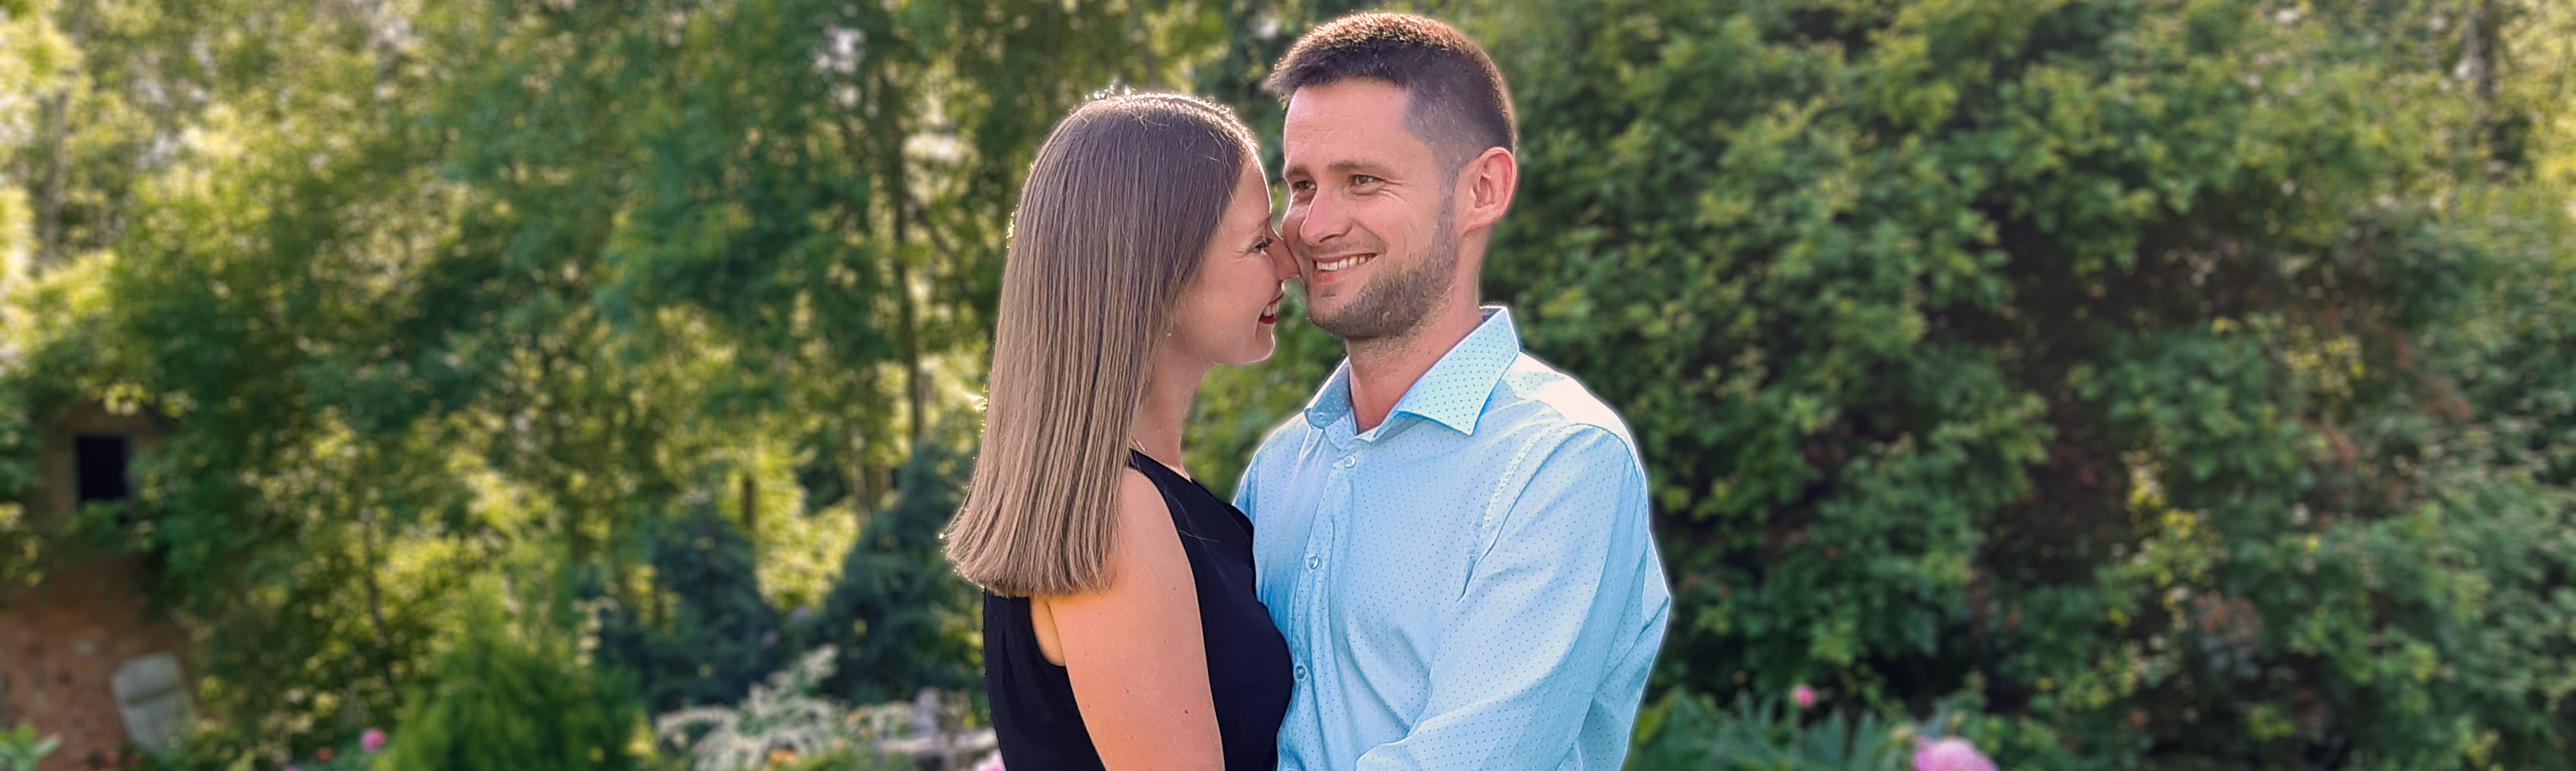
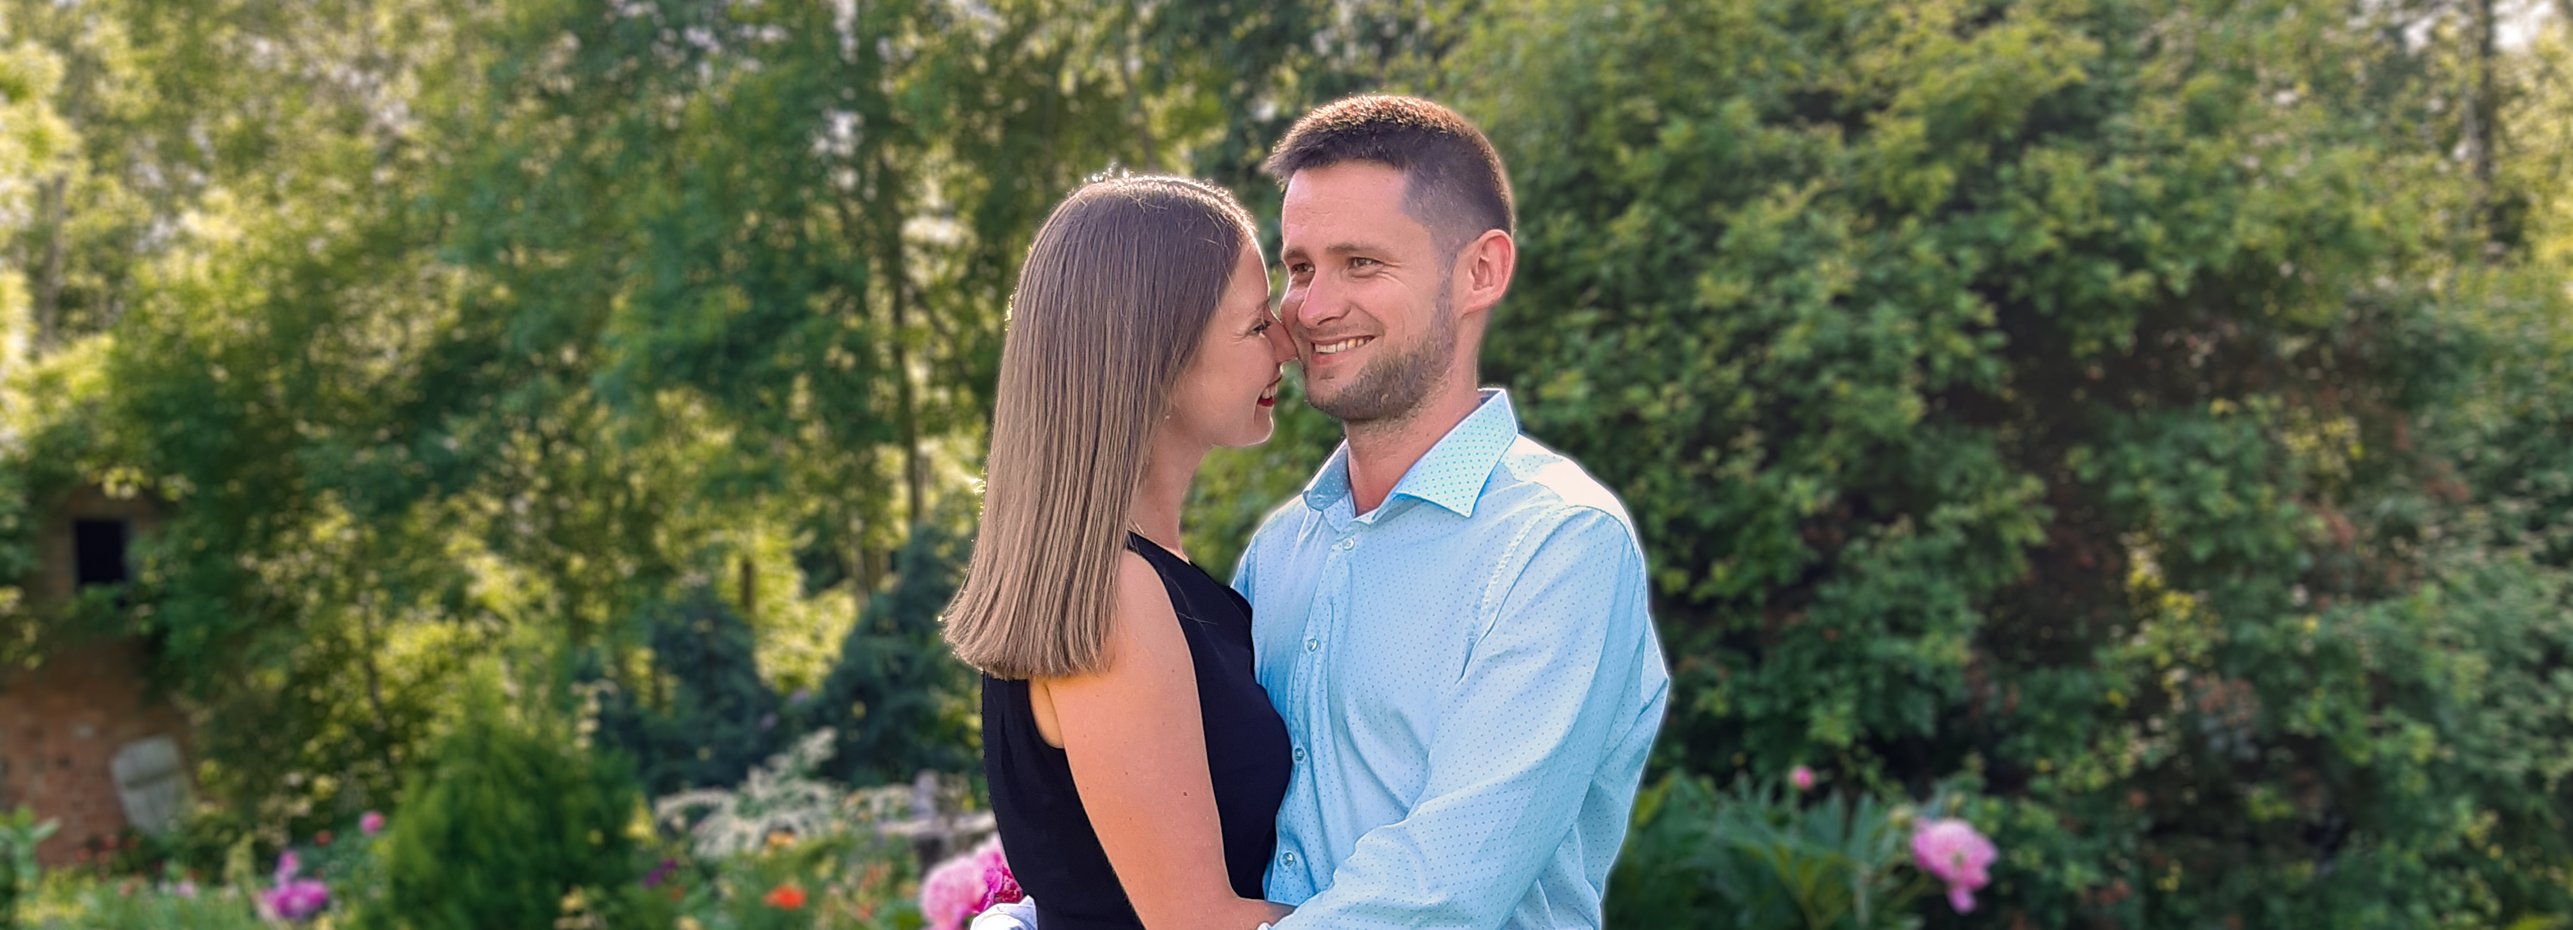
styling

diff --git a/src/app/components/header/header.component.html b/src/app/components/header/header.component.html
@@ -1,11 +1,35 @@
-<div class="wedding-header__container">
+<div class="wedding-header__container position-relative">
 
-  <h1 class="text-center mb-3 wedding-header__text">
+  <h1 class="text-center wedding-header__text">
     OLED OODATUD MEIE
     <br/>
-    <span class="text-decoration-underline">PULMA!</span>
+    <span>PULMA!</span>
     <br/>
-    <span>02.08.24</span>
+    <span>{{ configService.weddingStartTime | date:'dd.MM.yy' }}</span>
   </h1>
 
+
+  <div style="position: absolute; transform: rotate(180deg); width: 100%;">
+    <svg xmlns="http://www.w3.org/2000/svg" viewBox="0 0 1000 100" preserveAspectRatio="none">
+      <path fill="white" opacity="0.33"
+            d="M473,67.3c-203.9,88.3-263.1-34-320.3,0C66,119.1,0,59.7,0,59.7V0h1000v59.7 c0,0-62.1,26.1-94.9,29.3c-32.8,3.3-62.8-12.3-75.8-22.1C806,49.6,745.3,8.7,694.9,4.7S492.4,59,473,67.3z"></path>
+      <path fill="white" opacity="0.66"
+            d="M734,67.3c-45.5,0-77.2-23.2-129.1-39.1c-28.6-8.7-150.3-10.1-254,39.1 s-91.7-34.4-149.2,0C115.7,118.3,0,39.8,0,39.8V0h1000v36.5c0,0-28.2-18.5-92.1-18.5C810.2,18.1,775.7,67.3,734,67.3z"></path>
+      <path fill="white" opacity="0.86"
+            d="M766.1,28.9c-200-57.5-266,65.5-395.1,19.5C242,1.8,242,5.4,184.8,20.6C128,35.8,132.3,44.9,89.9,52.5C28.6,63.7,0,0,0,0 h1000c0,0-9.9,40.9-83.6,48.1S829.6,47,766.1,28.9z"></path>
+    </svg>
+  </div>
 </div>
+<div style="position:relative; top: -3px; width: 100%;">
+  <div style="position: absolute; width: 100%;">
+    <svg xmlns="http://www.w3.org/2000/svg" viewBox="0 0 1000 100" preserveAspectRatio="none">
+      <path fill="white" opacity="0.33"
+            d="M473,67.3c-203.9,88.3-263.1-34-320.3,0C66,119.1,0,59.7,0,59.7V0h1000v59.7 c0,0-62.1,26.1-94.9,29.3c-32.8,3.3-62.8-12.3-75.8-22.1C806,49.6,745.3,8.7,694.9,4.7S492.4,59,473,67.3z"></path>
+      <path fill="white" opacity="0.66"
+            d="M734,67.3c-45.5,0-77.2-23.2-129.1-39.1c-28.6-8.7-150.3-10.1-254,39.1 s-91.7-34.4-149.2,0C115.7,118.3,0,39.8,0,39.8V0h1000v36.5c0,0-28.2-18.5-92.1-18.5C810.2,18.1,775.7,67.3,734,67.3z"></path>
+      <path fill="white"
+            d="M766.1,28.9c-200-57.5-266,65.5-395.1,19.5C242,1.8,242,5.4,184.8,20.6C128,35.8,132.3,44.9,89.9,52.5C28.6,63.7,0,0,0,0 h1000c0,0-9.9,40.9-83.6,48.1S829.6,47,766.1,28.9z"></path>
+    </svg>
+  </div>
+</div>
+

diff --git a/src/app/components/time-until/time-until.component.ts b/src/app/components/time-until/time-until.component.ts
@@ -1,5 +1,6 @@
 import { Component, Inject, OnDestroy, OnInit, PLATFORM_ID } from '@angular/core';
 import { isPlatformBrowser } from '@angular/common';
+import { ConfigService } from '../../services/config.service';
 
 @Component({
   selector: 'wedding-time-until',
@@ -10,12 +11,17 @@ import { isPlatformBrowser } from '@angular/common';
 })
 export class TimeUntilComponent implements OnInit, OnDestroy {
 
-  private countDownTo: Date = new Date(2024, 7, 2, 15, 0);
 
-  protected countDownValue!: string;
+  protected days!: string;
+  protected hours!: string;
+  protected minutes!: string;
+  protected seconds!: string;
   private interval!: NodeJS.Timeout;
 
-  constructor(@Inject(PLATFORM_ID) private platformId: any) {
+  constructor(
+    @Inject(PLATFORM_ID) private platformId: any,
+    private configService: ConfigService,
+  ) {
   }
 
   ngOnInit(): void {
@@ -32,11 +38,15 @@ export class TimeUntilComponent implements OnInit, OnDestroy {
   }
 
   private updateCountDownValue() {
-    const secondsFromCurrentTimeToEnd = Math.max(0, (this.countDownTo.getTime() - new Date().getTime()) / 1000);
+    const secondsFromCurrentTimeToEnd = Math.max(0, (this.configService.weddingStartTime.getTime() - new Date().getTime()) / 1000);
     const days = Math.floor(secondsFromCurrentTimeToEnd / 3600 / 24);
     const hours = Math.floor(secondsFromCurrentTimeToEnd / 3600 - days * 24);
     const minutes = Math.floor((secondsFromCurrentTimeToEnd - (hours * 3600 + days * 3600 * 24)) / 60);
     const seconds = Math.floor(secondsFromCurrentTimeToEnd - (days * 24 * 3600) - (hours * 3600) - (minutes * 60));
-    this.countDownValue = `${ days.toString().padStart(2, '0') }:${ hours.toString().padStart(2, '0') }:${ minutes.toString().padStart(2, '0') }:${ seconds.toString().padStart(2, '0') }`;
+
+    this.days = days.toString().padStart(2, '0');
+    this.hours = hours.toString().padStart(2, '0');
+    this.minutes = minutes.toString().padStart(2, '0');
+    this.seconds = seconds.toString().padStart(2, '0');
   }
 }

diff --git a/src/app/components/header/header.component.scss b/src/app/components/header/header.component.scss
@@ -8,38 +8,42 @@
   background-repeat: no-repeat;
   background-size: cover;
 
-  height: 20rem;
+  height: 25rem;
 }
 
 .wedding-header__text {
   color: #ffffff;
   font-size: 1.5rem;
+  margin-bottom: 4rem;
 }
 
 
 @media screen and (min-width: 600px) {
   .wedding-header__text {
     font-size: 2rem;
-  }
-  .wedding-header__container {
-    height: 25rem;
-  }
-}
-
-@media screen and (min-width: 1000px) {
-  .wedding-header__text {
-    font-size: 2.5rem;
+    margin-bottom: 6rem;
   }
   .wedding-header__container {
     height: 30rem;
   }
 }
 
-@media screen and (min-width: 1700px) {
+@media screen and (min-width: 1000px) {
   .wedding-header__text {
-    font-size: 3.5rem;
+    font-size: 2.5rem;
+    margin-bottom: 8rem;
   }
   .wedding-header__container {
     height: 40rem;
+  }
+}
+
+@media screen and (min-width: 1700px) {
+  .wedding-header__text {
+    font-size: 3.5rem;
+    margin-bottom: 11rem;
+  }
+  .wedding-header__container {
+    height: 55rem;
   }
 }

diff --git a/src/app/components/location-information/location-information.component.html b/src/app/components/location-information/location-information.component.html
@@ -1,10 +1,11 @@
 <div class="wedding-location__container">
 
-  <div class="p-5">
+  <div>
     <h2>Toimumispaik</h2>
     <ul>
       <li>Pulmapidu toimiub Pärnumaal mingis talus</li>
       <li>Telk tuleb endal võtta</li>
+      <li>Lorem ipsum dolor sit amet, consectetur adipiscing elit. Quisque vel efficitur mi. Integer laoreet fringilla vulputate. Duis in varius tortor. Phasellus et purus id elit fermentum finibus. Morbi semper interdum elit et congue. In euismod vulputate velit, nec condimentum velit bibendum sed. Quisque laoreet orci non magna dictum, in sagittis est egestas. Nulla a lacus tincidunt, facilisis velit ac, malesuada erat. In sit amet erat sit amet leo mattis porta. Sed nec nisi at urna aliquet dignissim quis non ex.</li>
     </ul>
   </div>
 

diff --git a/src/app/components/time-until/time-until.component.html b/src/app/components/time-until/time-until.component.html
@@ -1,4 +1,22 @@
-<div class="d-flex flex-column align-items-center p-5">
+<div class="d-flex flex-column align-items-center">
   <h2>PULMADENI <br/> ON JÄÄNUD</h2>
-  <div>{{ countDownValue }}</div>
+
+  <div class="wedding-time-until__clock-container">
+    <div class="text-center">
+      <div>{{ days }}</div>
+      <small>päeva</small>
+    </div>
+    <div class="text-center">
+      <div>{{ hours }}</div>
+      <small>tundi</small>
+    </div>
+    <div class="text-center">
+      <div>{{ minutes }}</div>
+      <small>minutit</small>
+    </div>
+    <div class="text-center">
+      <div>{{ seconds }}</div>
+      <small>sekundit</small>
+    </div>
+  </div>
 </div>

diff --git a/src/app/app.component.html b/src/app/app.component.html
@@ -1,8 +1,10 @@
 <wedding-header></wedding-header>
 <div class="wedding-page__container">
-  <wedding-time-until></wedding-time-until>
-  <wedding-location-information></wedding-location-information>
-  <wedding-register></wedding-register>
-  <wedding-timetable></wedding-timetable>
+  <div class="wedding-page__inner-container">
+    <wedding-time-until></wedding-time-until>
+    <wedding-location-information></wedding-location-information>
+    <wedding-register></wedding-register>
+    <wedding-timetable></wedding-timetable>
+  </div>
 </div>
 <wedding-footer></wedding-footer>

diff --git a/src/app/components/header/header.component.ts b/src/app/components/header/header.component.ts
@@ -1,12 +1,18 @@
 import { Component } from '@angular/core';
+import { ConfigService } from '../../services/config.service';
+import { DatePipe } from '@angular/common';
 
 @Component({
   selector: 'wedding-header',
   standalone: true,
-  imports: [],
+  imports: [
+    DatePipe,
+  ],
   templateUrl: './header.component.html',
   styleUrl: './header.component.scss'
 })
 export class HeaderComponent {
 
+  constructor(protected configService: ConfigService) {
+  }
 }

diff --git a/src/index.html b/src/index.html
@@ -2,10 +2,10 @@
 <html lang="en">
 <head>
   <meta charset="utf-8">
-  <title>Digipulm</title>
+  <title>Katre &#38; Janek</title>
   <base href="/">
   <meta name="viewport" content="width=device-width, initial-scale=1">
-  <link rel="icon" type="image/x-icon" href="assets/favicon.ico">
+  <link rel="icon" type="image/x-icon" href="assets/icon.ico">
 </head>
 <body>
   <app-root></app-root>

diff --git a/src/app/components/location-information/location-information.component.scss b/src/app/components/location-information/location-information.component.scss
@@ -1,4 +1,17 @@
 .wedding-location__container {
   display: grid;
-  grid-template-columns: 1fr 40rem;
+  grid-template-columns: 1fr;
+  gap: 1rem;
+}
+
+iframe {
+  border-radius: 1rem;
+  min-height: 20rem;
+}
+
+@media screen and (min-width: 1500px) {
+  .wedding-location__container {
+    grid-template-columns: 1fr 1fr;
+    gap: 10rem;
+  }
 }

diff --git a/src/app/app.component.scss b/src/app/app.component.scss
@@ -3,4 +3,16 @@
   background-position: center center;
   background-repeat: repeat-y;
   background-size: 100%;
+
+  display: flex;
+  flex-direction: column;
+  align-items: center;
+}
+
+.wedding-page__inner-container {
+  display: flex;
+  flex-direction: column;
+  gap: 10rem;
+  margin: 10rem 0;
+  width: 60dvw;
 }

diff --git a/src/app/components/timetable/timetable.component.html b/src/app/components/timetable/timetable.component.html
@@ -1,6 +1,6 @@
-<div class="p-5 d-flex flex-column align-items-center">
+<div class="d-flex flex-column align-items-center">
 
-  <h2 class="text-decoration-underline">PULMA KAVA</h2>
+  <h2>PULMA KAVA</h2>
   <ul>
     <li>Tervitamine</li>
     <li>Kingituste üle andmine</li>

diff --git a/src/app/services/config.service.ts b/src/app/services/config.service.ts
@@ -1,0 +1,10 @@
+import { Injectable } from '@angular/core';
+
+@Injectable({
+  providedIn: 'root',
+})
+export class ConfigService {
+
+  readonly weddingStartTime: Date = new Date(2024, 7, 2, 15, 0);
+
+}
